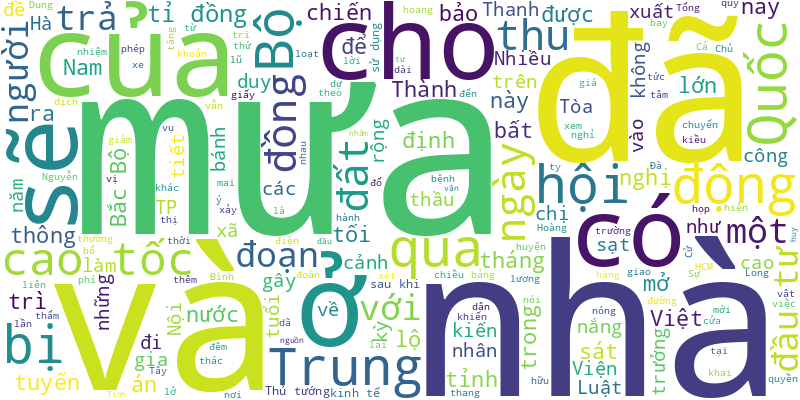
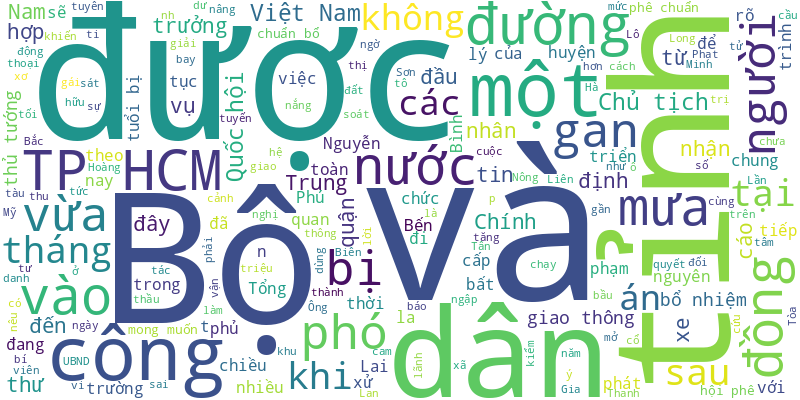
🍀 = 30%

diff --git a/README.md b/README.md
@@ -1,6 +1,15 @@
 # Tuoi Tre RSS 
 
 ## Giáo dục 
+- Học viện Hàng không Việt Nam yêu cầu thí sinh đã trúng tuyển trường khác hủy xác nhận nhập học trường đó để nhập học bằng xét tuyển bổ sung vào học viện.
+- Dư luận Đà Nẵng đang xôn xao vụ một giáo viên tố nhóm trẻ dùng bún thiu khiến nhiều em đau bụng.
+- Ngày 26-8, Trường THPT Ernst Thälmann (quận 1, TP.HCM) tổ chức gian hàng sách 0 đồng cho học sinh đến trao đổi sách giáo khoa và dụng cụ học tập.
+- Để ở lại dọn dẹp vệ sinh và đón con em về làng vào cuối ngày, phụ huynh Ca Dong ở điểm trường mầm non Măng Dí (xã Trà Nam, Nam Trà My, Quảng Nam) cùng nhau dựng lán trại thô sơ nằm đối diện với trường học.
+- Sở Giáo dục và Đào tạo TP.HCM vừa có văn bản hướng dẫn về các khoản thu đầu năm học 2024-2025.
+- Sáng 26-8, 465 học bổng Vallet đã được trao đến các bạn học sinh, sinh viên, học viên cao học tài năng ở các tỉnh phía Nam.
+- 'Chúng tôi không dạy học sinh giải đề, mà dạy những điều không bao giờ xuất hiện trong các đề thi Olympic Toán quốc tế', Giáo sư Po Shen Loh chia sẻ.
+- Nhiều nghiên cứu cho thấy trẻ dùng smartphone đối mặt nhiều nguy cơ, đặc biệt là chức năng thần kinh bị ảnh hưởng, bị 'đầu độc' và bắt nạt trực tuyến...
+- Hàng loạt trường đại học đã liên hệ ủng hộ tân sinh viên gần 100 suất học bổng Tiếp sức đến trường 2024 với hơn 1,2 tỉ đồng.
 - Sáng nay 26-8, học sinh các cấp học ở TP.HCM trở lại trường sau gần 3 tháng nghỉ hè. Gặp lại thầy cô, bạn bè, các cô cậu học trò nói cười rôm rả.
 - Xuất sắc vượt qua 13 đội tuyển, đội Hong Kong (Trung Quốc) đoạt chức vô địch Robocon châu Á - Thái Bình Dương 2024. Đội Việt Nam 1 về nhì. 
 - Ban Thường vụ Tỉnh ủy Khánh Hòa vừa kết luận thống nhất báo cáo đánh giá hoạt động và định hướng tiếp tục phát triển Trường đại học Khánh Hòa.
@@ -22,49 +31,41 @@
 - Trong năm học mới này, những ngôi trường "đẹp như mơ" trở thành điểm nhấn cảnh quan của thành phố Đà Nẵng, đồng thời kích thích thẩm mỹ, khiếu sáng tạo và cảm hứng học tập cho học sinh.
 - Lãnh đạo UBND huyện Vĩnh Thuận, tỉnh Kiên Giang khẳng định hiệu trưởng đã tự ý chuyển cơ sở vật chất trường cũ sang trường mới khi chưa có văn bản chính thức của huyện là có.
 - Sau lùm xùm 'trường chưa thông báo tuyển sinh đã hết chỉ tiêu', lãnh đạo UBND quận Nam Từ Liêm trực tiếp đối thoại với phụ huynh.
-- Trong cuộc thi ROBOTACON WRO 2024 với chủ đề “Đồng minh Trái đất”, bên cạnh các nhiệm vụ chính thức, còn có thêm những thử thách bất ngờ, giúp các em hiểu hơn về phát triển bền vững.
-- Chuyên gia cảnh báo việc thí sinh đang 'đứng núi này trông núi nọ', tính đến việc bỏ nhập học sau khi trúng tuyển để xét tuyển lại sẽ gặp nhiều rủi ro.
-- Hơn năm năm qua, ba nhà giáo ở Quảng Ngãi may áo dài cho sinh nghèo. Họ chung tấm lòng thiện nguyện thảo thơm, sẻ chia khó nhọc, tiếp thêm động lực cho những phận đời vươn lên giữa gian khó.
-- Lãnh đạo Sở Giáo dục và Đào tạo Đà Nẵng cho biết đã có kết luận trả lời phản ánh của các giáo viên Trường THPT Thái Phiên về dấu hiệu sai phạm của Hiệu trưởng Nguyễn Bá Hảo.
-- TP.HCM đã ấn định mức trần các khoản thu dịch vụ trong trường công lập tại TP.HCM năm học 2024-2025.
-- Nhiều phụ huynh, thí sinh phản ánh Trường đại học Quốc tế (Đại học Quốc gia TP.HCM) buộc thí sinh phải nộp hồ sơ nhập học trực tiếp và hoàn thành các khoản thu trước 16h ngày 24-8.
-- Liên quan đến vụ việc tuyển sinh sai đối tượng tại Trường phổ thông Dân tộc nội trú THCS Mường Lát, Ủy ban Kiểm tra Tỉnh ủy Thanh Hóa vừa công bố quyết định kỷ luật một loạt cán bộ, lãnh đạo huyện này.
-- UBND tỉnh Bắc Ninh khen thưởng học sinh, cán bộ quản lý, giáo viên bồi dưỡng đội tuyển học sinh giỏi đoạt giải trong các kỳ thi quốc gia, khu vực và quốc tế gần 5,2 tỉ đồng.
-- Phần thưởng của 654 học sinh giỏi biến thành nỗi ấm ức khi các em phải mang vở đi đổi mà không được.
 ![Edu](Edu.png)
 ## Thời Sự 
-- Tính đến tháng 7-2024, có 12 tuyến cao tốc do Nhà nước đầu tư đã đi vào vận hành khai thác. Những tuyến này sẽ được thu phí nhằm huy động nguồn lực xã hội để bảo trì các tuyến cao tốc hiện hữu và đầu tư thêm cao tốc mới.
-- Hội đồng thẩm định bảng giá đất TP.HCM có nhiệm vụ thẩm định bảng giá đất theo quy định của pháp luật.
-- Theo Chủ tịch Quốc hội Trần Thanh Mẫn, kỳ họp bất thường lần thứ 8 sẽ bầu Chánh án Tòa án nhân dân tối cao, Viện trưởng Viện kiểm sát nhân dân tối cao, phê chuẩn bổ nhiệm 3 Phó thủ tướng, 2 Bộ trưởng.
-- Do mưa nhiều ngày qua, đặc biệt cơn mưa lớn kéo dài đêm 25-8 gây sạt lở nghiêm trọng trên quốc lộ 15C, đoạn qua xã Trung Lý, huyện Mường Lát (Thanh Hóa), làm ách tắc giao thông.
-- Ông Nguyễn Văn Thái, giám đốc Trung tâm Bảo tồn động vật hoang dã Việt Nam, nói chuyện với Tuổi Trẻ sau khi tỉnh Đồng Nai mở chiến dịch "Nói không với sử dụng động vật hoang dã".
-- Sau khi một nhà thầu bị loại, liên danh Tập đoàn Đèo Cả kiến nghị Tổng công ty Cảng hàng không Việt Nam (ACV) xem xét lại việc tổ chức đấu thầu đối với gói thầu 4.7 ở dự án sân bay Long Thành.
-- Nhiều hành khách bất ngờ khi có một khoản tiền kha khá đổ về tài khoản sau khi chuyến bay bị delay hoặc hủy chuyến...
-- Một số tin tức đáng chú ý: Tòa phong tỏa gần 29 tỉ đồng của Coteccons để trả cho Boho; Công ty của đại gia Đặng Thành Tâm sẽ vay 1.000 tỉ đồng trái phiếu để trả nợ; Cả nước có 52 đơn vị được phép tái chế bao bì, pin, đồ điện tử và dầu nhớt...
-- Hôm nay 26-8, thời tiết Bắc Bộ và Nam Bộ mưa rào, vài nơi mưa to, Trung Bộ vẫn duy trì nắng nóng.
-- Sự xuất hiện của những thành phần độc đáo như nấm truffle, ô long hạt thông hay thịt muối Iberico... trong bánh trung thu khiến thị trường bánh trung thu năm nay vẫn dồi dào bánh cao cấp dù kinh tế 'nguội'.
-- Các chiến sĩ cảnh sát giao thông đã có mặt ở mọi ngã tư trên lộ trình tại TP.HCM, giúp đoàn xe kịp về tới bệnh viện ghép cho người bệnh.
-- Cử tri 6 tỉnh đồng loạt đề nghị điều chỉnh mức giảm trừ gia cảnh cho phù hợp thực tế, nhất là sau tăng lương từ 1-7.
-- Lâm Đồng kiến nghị Thủ tướng mở rộng cửa cho Đà Lạt bằng đường cao tốc.
-- Nguyễn Duy Hoàng, 35 tuổi, ngỏ lời yêu chị họ 41 tuổi nhưng bị cự tuyệt. Thấy chị đi chơi ở nhà hàng xóm, Hoàng ghen tuông, dùng dao sát hại chị này.
-- Thủ tướng Phạm Minh Chính đã chủ trì Hội nghị đảm bảo an ninh trật tự phục vụ phát triển kinh tế - xã hội các tỉnh Tây Nguyên.
-- Tại huyện Bắc Quang (Hà Giang) xảy ra mưa lũ lớn khiến một người chết do bị lũ cuốn trôi, hai người bị thương do sạt ta luy dương gây sập đổ tường nhà.
-- Mưa lớn ở Bắc Bộ đã dịch chuyển sang khu vực phía Tây Bắc Bộ nên khả năng xảy ra dông sét trong đêm nay và ngày mai sẽ giảm dần.
-- Đường tránh quốc lộ 20 đi qua TP Bảo Lộc chưa sử dụng đã nát như tương.
-- Loạt ngành, nghề, dự án ưu tiên thu hút nhà đầu tư chiến lược vào thành phố Đà Nẵng gồm những gì?
-- Bộ trưởng Đào Ngọc Dung đã trả lời ý kiến cử tri đề xuất nghỉ thêm từ Quốc khánh (2-9) đến khai giảng (5-9) và nghỉ ngày Chiến thắng Điện Biên Phủ (7-5).
-- Qua đó ngân sách trả lương, phúc lợi và chi phí liên quan tiết kiệm trên 13,3 tỉ đồng/tháng, tức khoảng 160 tỉ đồng/năm.
-- Nhiều chuyên gia kinh tế cho rằng việc bổ sung quy định cho Việt kiều mua nhà đất trong nước sẽ làm thị trường bất động sản sôi động hơn.
-- Mưa lớn chiều tối 24-8 gây sạt lở, nước chảy như thác làm tê liệt quốc lộ 6 đoạn qua dốc Cun, Hòa Bình. Sáng nay 25-8, đoạn này được thông tuyến.
-- Tuần này thời tiết Bắc Bộ duy trì mưa, có nơi mưa to. Nam Bộ ngày nắng gián đoạn, chiều tối mưa, Trung Bộ nắng nóng diện rộng.
-- Trong 6 tháng đầu năm 2024, thu nhập bình quân của người lao động là 8,4 triệu đồng/tháng, tăng so với cùng kỳ.
-- Đoạn cao tốc Vinh - Thanh Thủy dài 65km qua tỉnh Nghệ An thuộc cao tốc Hà Nội - Viêng Chăn được đề xuất đầu tư với tổng đầu tư 18.500 tỉ đồng.
-- Kỳ họp bất thường lần thứ 8 Quốc hội khóa XV sẽ diễn ra vào ngày mai (26-8) để xem xét công tác nhân sự.
-- Cảnh sát đã đưa thang máy của một tòa nhà ở Hà Nội về đúng vị trí tầng, mở cửa thang, giải cứu 9 người bị mắc kẹt ra ngoài an toàn.
-- Luật Đất đai và Luật Nhà ở mới đây đã mở rộng quyền sở hữu nhà ở, quyền sử dụng đất cho Việt kiều.
-- Nội dung không khác nhau, chỉ khác nhau chữ "giấy" và "sổ", vì sao lại trả hồ sơ đổi giấy phép lái xe của tôi?
+- Ông Ral Lan Chung - phó bí thư Tỉnh ủy Gia Lai - vừa được Hội đồng nhân dân tỉnh bầu làm Chủ tịch UBND tỉnh Gia Lai.
+- Chủ tịch UBND tỉnh Khánh Hòa vừa chấp thuận tiếp các công dân bị thu hồi đất tại Sông Lô, TP Nha Trang giao cho Công ty TNHH Hoàn Cầu làm dự án nhưng lại bỏ hoang suốt 22 năm qua tới nay.
+- Một người đàn ông 53 tuổi bị ung thư gan, xơ gan nặng do viêm gan B và bé gái 9 tháng tuổi bị xơ gan ứ mật nguyên phát cùng được nhận một lá gan để ghép.
+- TS Nguyễn Việt Hùng, nguyên vụ trưởng Vụ Quản lý đấu thầu, Bộ Kế hoạch và đầu tư nhận định ACV đang làm đúng theo hồ sơ mời thầu.
+- Sau hơn một tháng, cảnh sát giao thông TP.HCM đã tiếp nhận hàng trăm tin nhắn, cuộc gọi từ người dân, phản ánh về vi phạm giao thông và tiến hành xử lý.
+- Một số tin tức đáng chú ý: Bình Chánh bác tin 'chi 100 triệu đồng để chạy chức lãnh đạo ấp'; Diễn biến bất ngờ ở thị trường bất động sản Hoài Đức; Phạt một cá nhân mua chui cổ phiếu...
+- Hôm nay 27-8, thời tiết Nam Bộ và Tây Nguyên mưa tăng, chiều tối nhiều nơi mưa to. Trung Bộ nắng nóng, Bắc Bộ trời cũng nắng sau chuỗi ngày mưa.
+- Lần thứ sáu đến Việt Nam, Thống đốc tỉnh Aichi (Nhật Bản) Omura Hideaki mong muốn Việt Nam mở tổng lãnh sự quán tại đây và tăng tần suất chuyến bay.
+- Đây là đối thoại chính trị - an ninh - quốc phòng đầu tiên sau khi Việt Nam và Mỹ nâng cấp quan hệ lên Đối tác chiến lược toàn diện tháng 9-2023.
+- Cơn mưa lớn vào chiều tối khiến thành phố Bến Cát, tỉnh Bình Dương bất ngờ ngập trong biển nước, không chỉ xe máy mà cả ô tô bị nước cuốn trôi, lực lượng chức năng phải ứng cứu.
+- Thủ tướng Phạm Minh Chính mong muốn các phó thủ tướng, bộ trưởng vừa được Quốc hội phê chuẩn, bổ nhiệm 'đồng cam cộng khổ' cùng với tập thể Chính phủ.
+- Cảnh sát giao thông khuyến cáo người dân lựa chọn lộ trình và thời gian phù hợp, đồng thời cần tuân thủ các quy định khi đi trên cao tốc như: không đi vào làn khẩn cấp, giữ khoảng cách an toàn, không sử dụng điện thoại khi lái xe...
+- Đoàn tàu khách SE7 chạy tuyến đường sắt Bắc Nam khi đến đoạn gần đường ngang trên đường Nguyễn Kiệm (quận Phú Nhuận, TP.HCM) đã vướng phải dây cáp viễn thông.
+- Bộ Ngoại giao nêu rõ mong muốn Đại học Fulbright Việt Nam tiếp tục đóng góp thiết thực vào sự phát triển quan hệ hữu nghị, hợp tác giữa Việt Nam và Mỹ.
+- Liên quan vụ 3 lần bị xử phạt, 'biệt phủ' sai phép do vợ phó chủ tịch thị xã xây vẫn tồn tại, chủ mới khu đất cam kết tự phá dỡ công trình vi phạm trong 30 ngày.
+- Quá trình thi công dự án chung cư tại lô đất CT2 (quận Long Biên, Hà Nội) đã gây hư hỏng vỉa hè, đường Cổ Linh và chưa được khắc phục.
+- Dư luận Đà Nẵng đang xôn xao vụ một giáo viên tố nhóm trẻ dùng bún thiu khiến nhiều em đau bụng.
+- Dưới đây là danh sách các thành viên Chính phủ nhiệm kỳ 2021 - 2026 sau khi Quốc hội phê chuẩn bổ nhiệm 3 phó thủ tướng và 2 bộ trưởng.
+- Tin vào lời hứa 'việc nhẹ lương cao', cô gái 17 tuổi bị người xấu lừa bán sang biên giới Campuchia để lao động khổ sai rồi được công an giải cứu.
+- Chiều 26-8, tại Phủ Chủ tịch, Tổng Bí thư, Chủ tịch nước Tô Lâm trao quyết định bổ nhiệm ba phó thủ tướng và hai bộ trưởng vừa được Quốc hội phê chuẩn bổ nhiệm.
+- Trước việc dịch lở mồm long móng lây lan mạnh, Bộ Nông nghiệp và Phát triển nông thôn yêu cầu Quảng Trị triển khai các giải pháp kiểm soát.
+- Đường 830C nối từ trung tâm huyện Bến Lức đến đường Nguyễn Hữu Trí (TP.HCM) dài 9km sẽ được nâng cấp, mở rộng với mức đầu tư hơn 970 tỉ.
+- Sở Giao thông vận tải TP.HCM vừa ra thông báo hạn chế xe cộ đi vào một số tuyến đường khu vực sân bay Tân Sơn Nhất (quận Tân Bình, TP.HCM).
+- Tổng thư ký Quốc hội Bùi Văn Cường nêu rõ theo nghị quyết của Trung ương, chức danh Chủ tịch nước sẽ được Quốc hội bầu vào tháng 10.
+- Lúc 19h15, tại các quận, huyện như Đống Đa, Cầu Giấy, Nam Từ Liêm, Thanh Xuân, Hoàng Mai, Hà Đông, Thanh Trì đang có mưa vừa, mưa to, kèm sớm chớp.
+- Với việc nước thải được thu gom xử lý liên tục, nước kênh Tàu Hủ - Bến Nghé - Đôi - Tẻ sẽ giảm ô nhiễm, không còn màu đen.
+- Đồng ý giúp Hiến (không rõ lai lệnh), nam tài xế xe công nghệ vận chuyển gần 5kg ma túy lấy 10 triệu đồng tiền công. Tòa án nhân dân TP.HCM tuyên bị cáo mức án tử hình.
+- Chưa kịp ổn định cuộc sống sau trận lũ cách đây 1 tháng, nhiều hộ dân ở xã Tông Cọ (huyện Thuận Châu, Sơn La) tiếp tục bị ngập sâu.
+- Theo báo cáo của Trung tâm Kiểm soát bệnh tật tỉnh Phú Yên (CDC Phú Yên), từ đầu năm 2024 đến nay toàn tỉnh ghi nhận 28 trường hợp chó cắn, trong đó có 2 trường hợp tử vong.
+- Tức giận vì lời đe dọa đốt chuồng gà của mình, Đỗ Hoàng Minh dùng súng bắn chết người. Tòa án nhân dân TP.HCM tuyên bị cáo án tù chung thân.
 ![New](News.png)
 ## Nhịp sống số 
+- Nhiều nghiên cứu cho thấy trẻ dùng smartphone đối mặt nhiều nguy cơ, đặc biệt là chức năng thần kinh bị ảnh hưởng, bị 'đầu độc' và bắt nạt trực tuyến...
 - Bạn có tin được không: khoảng 61% mật khẩu hiện nay có thể bị bẻ khóa trong chưa đầy một phút dưới sự hỗ trợ của trí tuệ nhân tạo (AI), trong khi chỉ có 7% mật khẩu đủ mạnh để phòng chống các cuộc tấn công lâu dài.
 - Với xu hướng kinh doanh hiện đại là tập trung nhiều hơn vào khách hàng, việc mang đến nhiều trải nghiệm cá nhân hóa để kết nối sâu sắc hơn với khách hàng là rất quan trọng.
 - AI không có khả năng tiếp thu các kỹ năng mới nếu không được hướng dẫn, do đó không có khả năng đe dọa con người.
@@ -94,5 +95,4 @@
 - Thực hiện chủ trương tắt sóng 2G của Bộ Thông tin và Truyền thông vào tháng 9-2024, VinaPhone triển khai loạt ưu đãi khách hàng nâng cấp lên điện thoại 4G miễn phí và nhiều ưu đãi hấp dẫn khác để duy trì liên lạc mà không phải lo lắng về chi phí.
 - Với gần một nửa dân số Úc bị ảnh hưởng, vụ tấn công mạng MediSecure là một trong những vụ xâm phạm dữ liệu lớn nhất trong lịch sử quốc gia này.
 - Đầu tuần này, giới công nghệ xôn xao với thông tin Alphabet, công ty mẹ của Google, đang sắp hoàn tất thương vụ 'khủng' mua lại công ty khởi nghiệp an ninh mạng Wiz với giá 23 tỉ USD.
-- Trước Đại hội toàn quốc Đảng Cộng hòa, Meta thông báo sẽ dỡ bỏ các hạn chế với tài khoản Facebook và Instagram của cựu tổng thống Donald Trump.
 ![life](Life.png)
